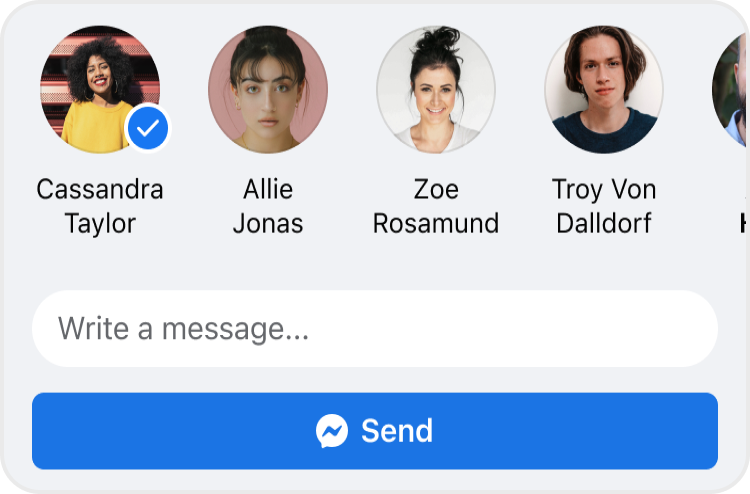
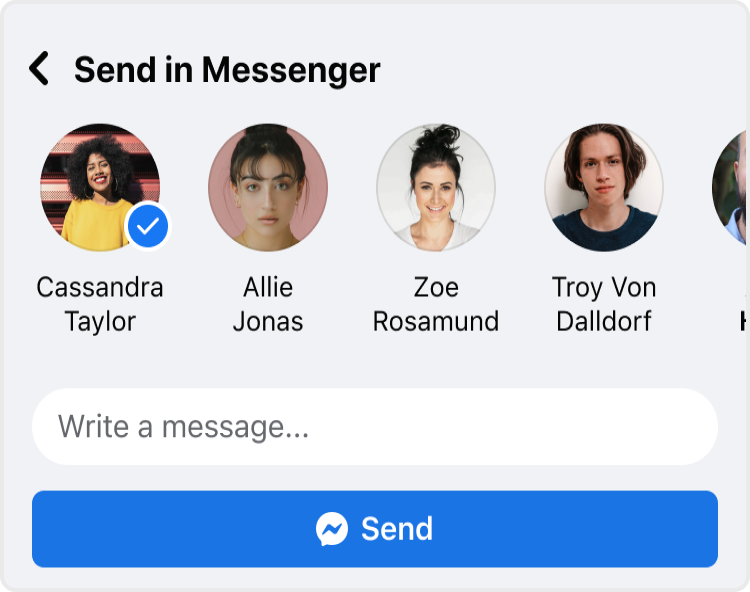
Collage: updated composer card (Send in Messenger header)

diff --git a/work/facebook-messaging-draft.html b/work/facebook-messaging-draft.html
@@ -188,7 +188,7 @@
               <img class="entry-card entry-card--experts" src="../images/messaging-entry-experts.png" width="750" height="402" alt="A Group experts list with a Messenger button beside William Lyons." loading="lazy" />
               </div>
               <div class="entry-col entry-col--3">
-              <img class="entry-card entry-card--sharesheet" src="../images/messaging-entry-sharesheet.png" width="750" height="494" alt="The share sheet&rsquo;s Send in Messenger row: recipients, a message field and a Send button." loading="lazy" />
+              <img class="entry-card entry-card--sharesheet" src="../images/messaging-entry-sharesheet.png?v=2" width="750" height="592" alt="The share sheet&rsquo;s Send in Messenger panel: a row of recipients with Cassandra Taylor selected, a message field and a blue Send button." loading="lazy" />
               <div class="entry-card entry-card--hang">
                 <img class="entry-card entry-card--profile" src="../images/messaging-entry-profile-tall.webp" width="756" height="750" alt="A Facebook profile for Cassandra Taylor with a cover photo, her profile photo, her friend count and a blue Message button." loading="lazy" />
               </div>
